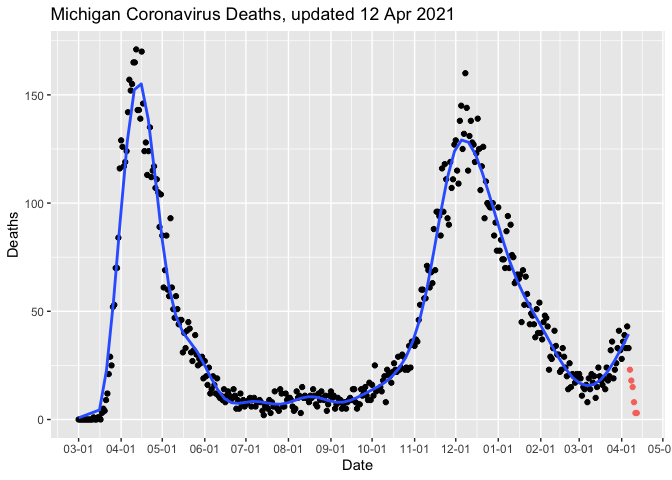
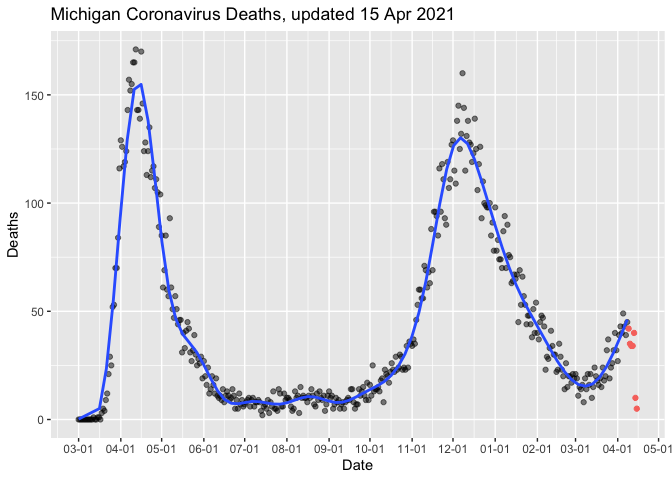
Apr-15 2021 19:37 update

diff --git a/MiCorona.md b/MiCorona.md
@@ -1,7 +1,7 @@
 Michigan COVID Data
 ================
 Adam D. DenHaan
-Apr 13, 2021
+Apr 15, 2021
 
 ``` python
 from urllib.request import urlopen
@@ -34,7 +34,7 @@ mi_data = readxl::read_excel("data/covid.xlsx")
 glimpse(mi_data)
 ```
 
-    ## Rows: 71,820
+    ## Rows: 72,348
     ## Columns: 8
     ## $ COUNTY            <chr> "Alcona", "Alcona", "Alcona", "Alcona", "Alcona", "A…
     ## $ Date              <dttm> 2020-03-01, 2020-03-02, 2020-03-03, 2020-03-04, 202…
@@ -43,7 +43,7 @@ glimpse(mi_data)
     ## $ Deaths            <dbl> 0, 0, 0, 0, 0, 0, 0, 0, 0, 0, 0, 0, 0, 0, 0, 0, 0, 0…
     ## $ Cases.Cumulative  <dbl> 0, 0, 0, 0, 0, 0, 0, 0, 0, 0, 0, 0, 0, 0, 0, 0, 0, 0…
     ## $ Deaths.Cumulative <dbl> 0, 0, 0, 0, 0, 0, 0, 0, 0, 0, 0, 0, 0, 0, 0, 0, 0, 0…
-    ## $ Updated           <dttm> 2021-04-12 14:05:35, 2021-04-12 14:05:35, 2021-04-1…
+    ## $ Updated           <dttm> 2021-04-15 14:14:29, 2021-04-15 14:14:29, 2021-04-1…
 
 Wrangle Data:
 
@@ -96,7 +96,7 @@ mi_cases_by_day_exclusive %>%
   ggplot(mapping = aes(x = Date, y = Cases)) +
   geom_vline(xintercept = today() - 21, color = "orange") +
   ylim(c(0,NA)) +
-  geom_point() + 
+  geom_point(alpha = .5) + 
   geom_smooth(
     method = "gam",
     formula = y ~ s(x, bs = "cs", k = 20),
@@ -120,7 +120,7 @@ mi_cases_by_day_exclusive %>%
 mi_cases_by_day_exclusive %>%
   ggplot(mapping = aes(x = Date, y = Deaths)) +
   ylim(c(0,NA)) +
-  geom_point() + 
+  geom_point(alpha = .5) + 
   geom_smooth(
     method = "gam",
     formula = y ~ s(x, bs = "cs", k = 20),
@@ -140,7 +140,7 @@ mi_cases_by_day_exclusive %>%
 
 ![](MiCorona_files/figure-gfm/viz2-1.png)<!-- -->
 
-Note that the last 6 days of data have been colored red on the graph, as
+Note that the last 7 days of data have been colored red on the graph, as
 they frequently change as more information becomes available. Vertical
 orange line at 3 weeks in the past (as hospitalizations and deaths
 usually follow cases by three weeks).
